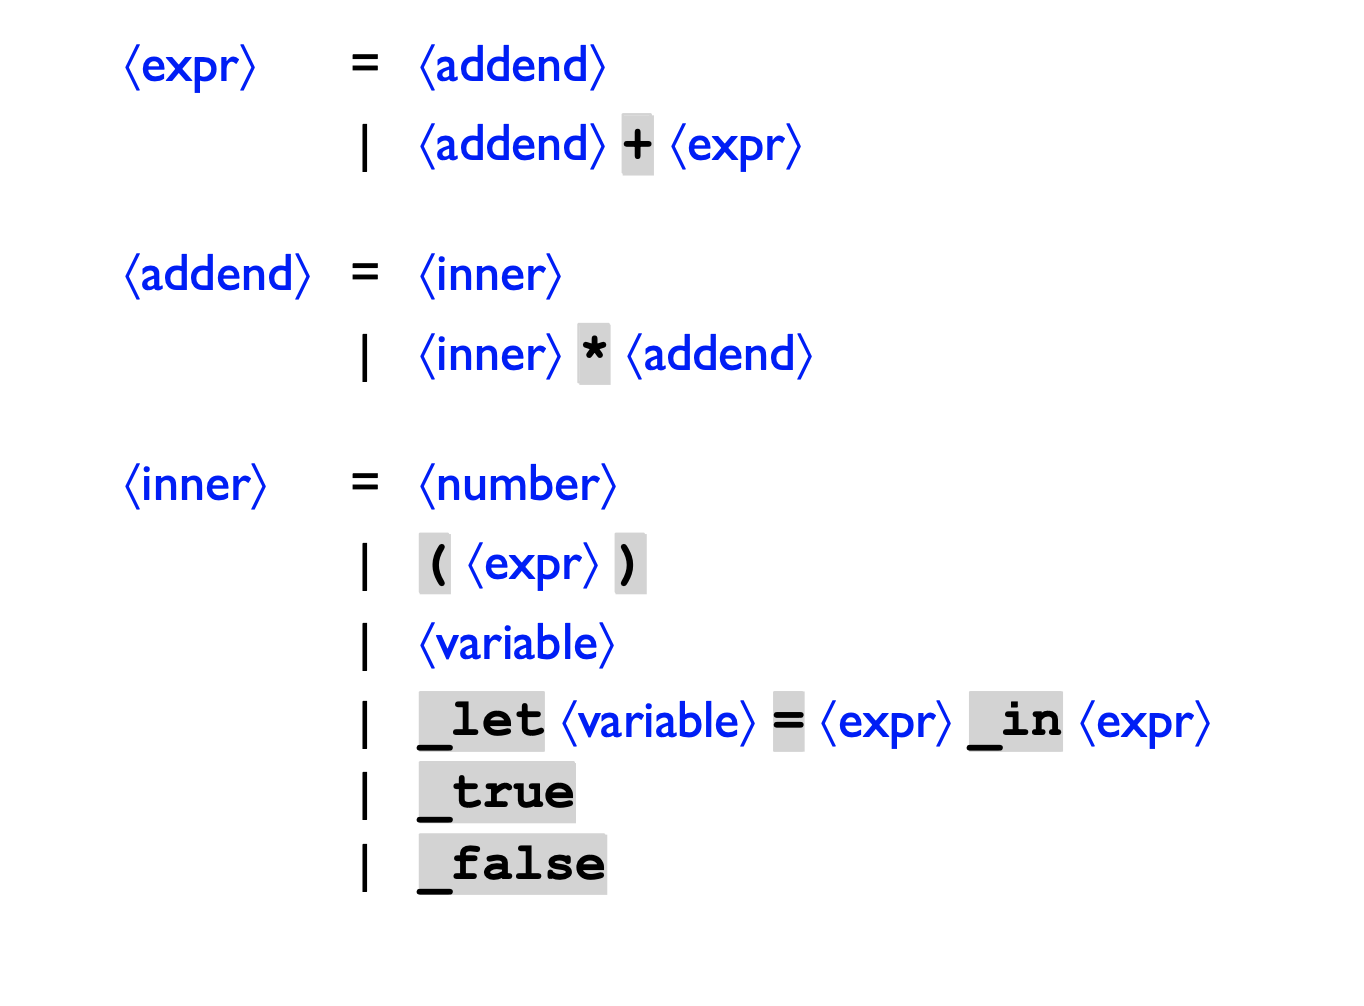
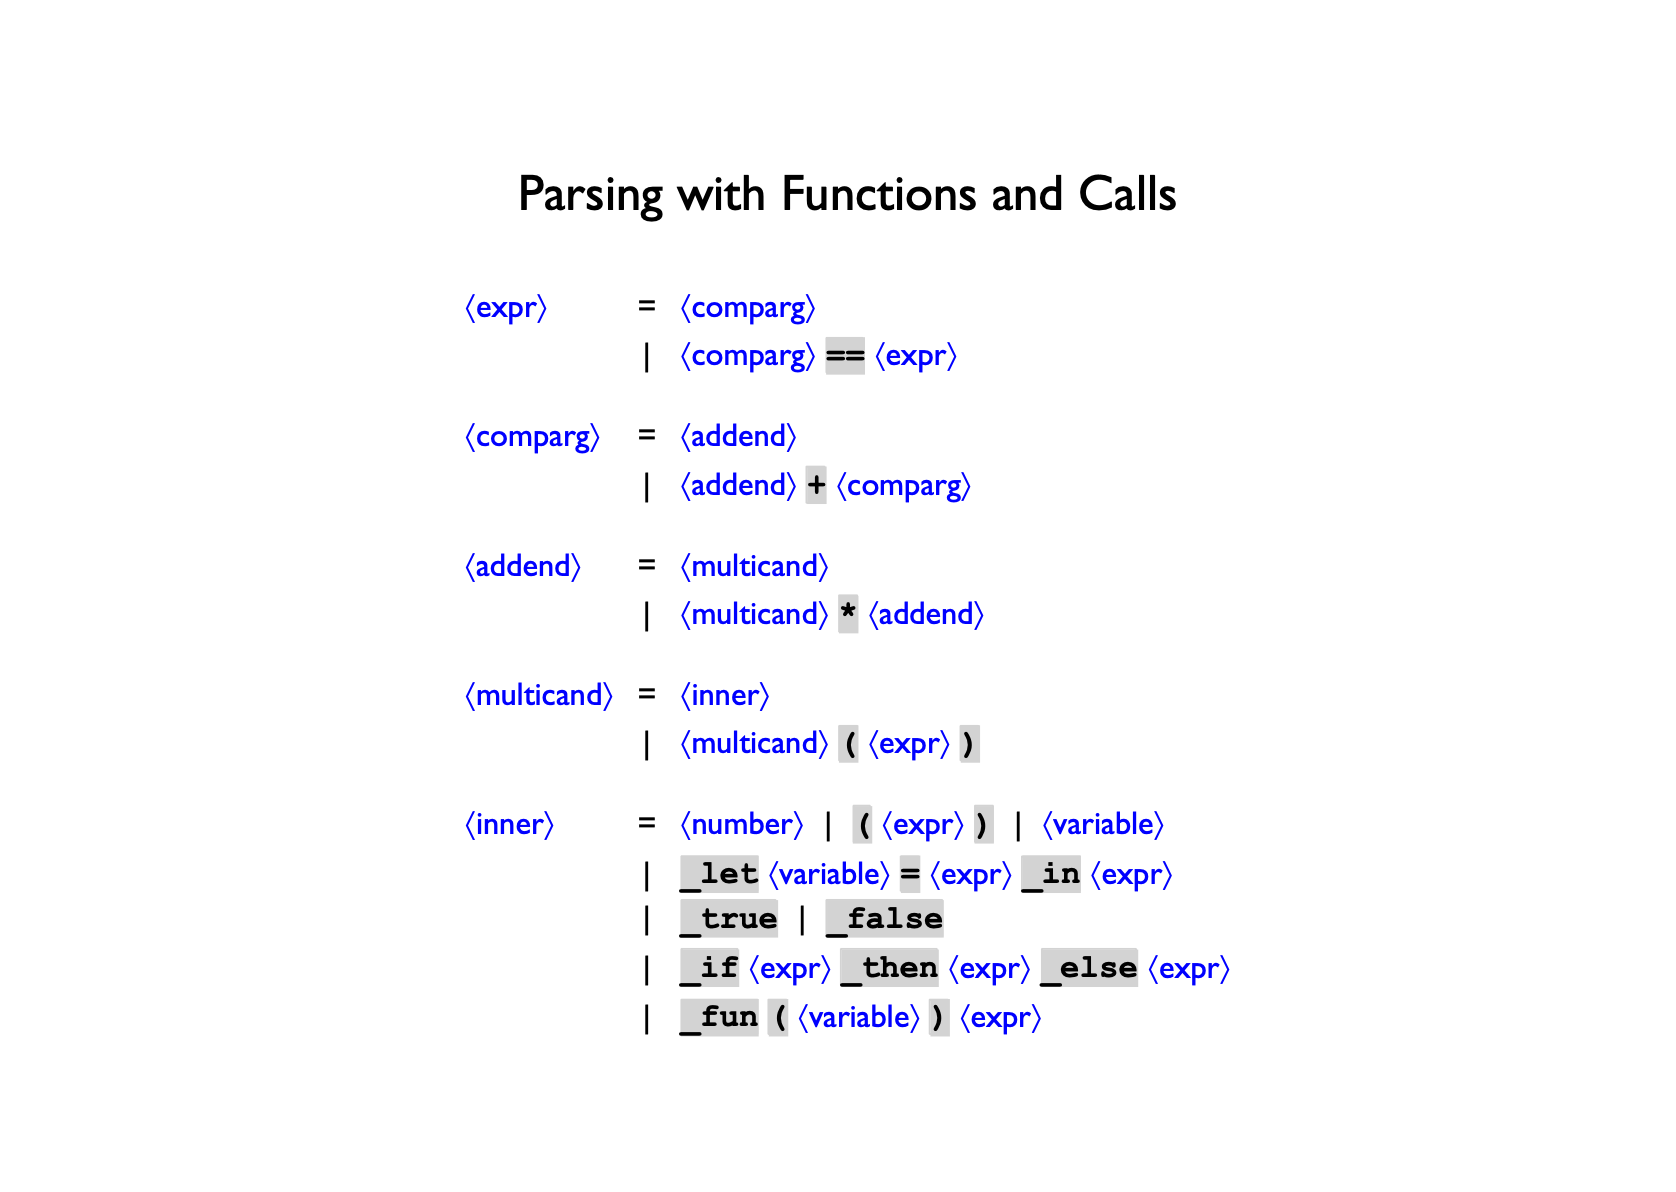
Add function support

diff --git a/Interpreter/parse.cpp b/Interpreter/parse.cpp
@@ -32,10 +32,12 @@ char get_next(std::istream &in){
 Expr *parse_if(std::istream &in);
 Expr *comparg(std::istream &in);
 Expr *addend(std::istream &in);
+Expr *multicand(std::istream &in);
 Expr *inner(std::istream &in);
 Expr *parse_number(std::istream &in);
 Expr *parse_variable(std::istream &in);
 Expr *let(std::istream &in);
+Expr *parse_fun(std::istream &in);
 std::string parse_keyword(std::istream &in);
 std::string parse_alphabetic(std::istream &in, std::string prefix);
 
@@ -77,11 +79,11 @@ Expr *comparg(std::istream &in){
 
 /**
  Return an expresion according to grammar:
- <addend> = <number-or-paren>
-          | <number-or-paren> * <addend>
+ <addend> = <multicand>
+          | <multicand> * <addend>
  */
 Expr *addend(std::istream &in) {
-    Expr *num = inner(in);
+    Expr *num = multicand(in);
     if(num == nullptr) return nullptr;
     char c = peek_next(in);
     if (c == '*') {
@@ -94,6 +96,19 @@ Expr *addend(std::istream &in) {
 }
 
 /**
+ <multicand> = <inner>
+             | <multicand> ( <expr> )
+ */
+Expr *multicand(std::istream &in) {
+    Expr *temp = inner(in);
+    while (peek_next(in) == '(') {
+        Expr *actual_arg = expr(in);
+        temp = new CallExpr(temp, actual_arg);
+    }
+    return temp;
+}
+
+/**
  Return an expression according to grammar:
  <number-or-paren> = <number>
                    | (<expr>)
@@ -101,6 +116,7 @@ Expr *addend(std::istream &in) {
                    | _let <variable> = <expr> _in <expr>
                    | _true/_false
                    | _if <expr> _then <expr> _else <expr>
+                   | _fun ( <variable> ) <expr>
  */
 Expr *inner(std::istream &in){
     char c = peek_next(in);
@@ -124,6 +140,8 @@ Expr *inner(std::istream &in){
             return let(in);
         else if (keyword == "_if")
             return parse_if(in);
+        else if (keyword == "_fun")
+            return parse_fun(in);
         else
             throw std::runtime_error((std::string)"unexpected keyword " + keyword);
     } else
@@ -174,6 +192,23 @@ Expr *parse_variable(std::istream &in) {
     return new VarExpr(parse_alphabetic(in, ""));
 }
 
+// Parse a function
+Expr *parse_fun(std::istream &in){
+    char c = peek_next(in);
+    if(c == '('){
+        get_next(in);
+        peek_next(in);
+        std::string formal_var = parse_alphabetic(in, "");
+        c = peek_next(in);
+        if(c != ')')
+            throw std::runtime_error((std::string)"not a function format");
+        get_next(in);
+        Expr *body = expr(in);
+        return new FuncExpr(formal_var, body);
+    } else
+        throw std::runtime_error((std::string)"not a function format");
+}
+
 // Parses an expression, assuming that `in` starts with a
 // letter.
 std::string parse_keyword(std::istream &in) {
@@ -210,6 +245,7 @@ Expr *parse_str(std::string s){
     return parse(in);
 }
 
+
 TEST_CASE( "parse" ) {
     CHECK((new NumExpr(1))->equals(new NumExpr(1)));
     CHECK(!(new NumExpr(1))->equals(new NumExpr(2)));
@@ -245,4 +281,9 @@ TEST_CASE("interpreter"){
     CHECK(parse_str("_let x = 6 _in _let x = 19 _in x")->interp()->equals(new NumVal(19)));
     CHECK(parse_str("_if 5 == 3 _then 2 _else 89")->interp()->equals(new NumVal(89)));
     CHECK(parse_str("-8 + 3")->interp()->equals(new NumVal(-5)));
+}
+
+TEST_CASE("function"){
+    CHECK(parse_str("_fun (x) x + 1")->equals(new FuncExpr("x", new AddExpr( new VarExpr("x"), new NumExpr(1)))));
+    CHECK(parse_str("_let f = _fun (x) x + 1 _in f(10)")->interp()->equals(new NumVal(11)));
 }

diff --git a/Interpreter/expr.cpp b/Interpreter/expr.cpp
@@ -213,6 +213,37 @@ std::string BoolExpr::to_string(){
     return interp()->to_string();
 }
 
+
+CallExpr::CallExpr(Expr *to_be_called, Expr *actual_arg){
+    this->to_be_called = to_be_called;
+    this->actual_arg = actual_arg;
+}
+
+bool CallExpr::equals(Expr *e){
+    CallExpr *ce = dynamic_cast<CallExpr *>(e);
+    return to_be_called->equals(ce->to_be_called) && actual_arg->equals(ce->actual_arg);
+}
+
+Val *CallExpr::interp(){
+    return to_be_called->interp()->call(actual_arg->interp());
+}
+
+Expr *CallExpr::subst(std::string var, Val* new_val){
+    return new CallExpr(to_be_called->subst(var, new_val), actual_arg);
+}
+
+Expr *CallExpr::optimize(){
+    return new CallExpr(to_be_called->optimize(), actual_arg->optimize());
+}
+
+bool CallExpr::containsVar(){
+    return actual_arg->containsVar();
+}
+
+std::string CallExpr::to_string(){
+    return to_be_called->to_string() + "(" + actual_arg->to_string() + ")";
+}
+
 LetExpr::LetExpr(std::string let_var, Expr *eq_expr, Expr *in_expr){
     this->let_var = let_var;
     this->rhs = eq_expr;
@@ -301,6 +332,40 @@ bool IfExpr::containsVar(){
 std::string IfExpr::to_string(){
     return "_if " + test_part->to_string() + " _then " + then_part->to_string() + " _else " + else_part->to_string();
 }
+
+FuncExpr::FuncExpr(std::string formal_arg, Expr *body){
+    this->formal_arg = formal_arg;
+    this->body = body;
+}
+
+bool FuncExpr::equals(Expr *e){
+    FuncExpr *fe = dynamic_cast<FuncExpr *>(e);
+    return formal_arg == fe->formal_arg && body->equals(fe->body);
+}
+
+Val *FuncExpr::interp(){
+    return new FuncVal(formal_arg, body);
+}
+
+Expr *FuncExpr::subst(std::string var, Val* new_val){
+    if(var == formal_arg)
+        return this;
+    else
+        return new FuncExpr(formal_arg, body->subst(var, new_val));
+}
+
+Expr *FuncExpr::optimize(){
+    return new FuncExpr(formal_arg, body->optimize());
+}
+
+bool FuncExpr::containsVar(){
+    return body->containsVar();
+}
+
+std::string FuncExpr::to_string(){
+    return "_fun (" + formal_arg + ") " + body->to_string();
+}
+
 
 TEST_CASE( "equals" ) {
     CHECK( (new NumExpr(1))->equals(new NumExpr(1)) );

diff --git a/Interpreter/value.cpp b/Interpreter/value.cpp
@@ -46,6 +46,10 @@ Expr *NumVal::to_expr(){
     return new NumExpr(rep);
 }
 
+Val *NumVal::call(Val *actual_arg){
+    return this;
+}
+
 std::string NumVal::to_string(){
     return std::to_string(rep);
 }
@@ -78,6 +82,9 @@ bool BoolVal::is_ture(){
     return rep;
 }
 
+Val *BoolVal::call(Val *actual_arg){
+    return this;
+}
 
 std::string BoolVal::to_string()
 {
@@ -85,6 +92,41 @@ std::string BoolVal::to_string()
         return "_true";
     else
         return "_false";
+}
+
+FuncVal::FuncVal(std::string formal_arg, Expr *body){
+    this->formal_arg = formal_arg;
+    this->body = body;
+}
+
+bool FuncVal::equals(Val *other_val){
+    FuncVal *fv = dynamic_cast<FuncVal *>(other_val);
+    return formal_arg == fv->formal_arg && body->equals(fv->body);
+}
+
+Val *FuncVal::add_to(Val *other_val){
+    throw std::runtime_error((std::string)"No adding functions");
+}
+
+Val *FuncVal::mult_with(Val *other_val){
+    throw std::runtime_error((std::string)"No multiplying functions");
+}
+
+bool FuncVal::is_ture(){
+    throw std::runtime_error((std::string)"evaluate non-boolean");
+}
+
+Expr *FuncVal::to_expr(){
+    return new FuncExpr(formal_arg, body);
+}
+
+Val *FuncVal::call(Val *actual_arg){
+    Expr * new_body = body->subst(formal_arg, actual_arg);
+    return new_body->interp();
+}
+
+std::string FuncVal::to_string(){
+    return "_fun (" + formal_arg + ") " + body->to_string();
 }
 
 TEST_CASE( "values equals" ) {

diff --git a/Interpreter/expr.hpp b/Interpreter/expr.hpp
@@ -108,6 +108,20 @@ public:
     std::string to_string();
 };
 
+class CallExpr : public Expr{
+public:
+    Expr* to_be_called;
+    Expr* actual_arg;
+    
+    CallExpr(Expr *to_be_called, Expr *actual_arg);
+    bool equals(Expr *e);
+    Val *interp();
+    Expr *subst(std::string var, Val* new_val);
+    Expr *optimize();
+    bool containsVar();
+    std::string to_string();
+};
+
 class LetExpr : public Expr{
 public:
     std::string let_var;
@@ -125,12 +139,25 @@ public:
 
 class IfExpr : public Expr{
 public:
-    std::string let_var;
     Expr *test_part;
     Expr *then_part;
     Expr *else_part;
     
     IfExpr(Expr *test_part, Expr *then_part, Expr *else_part);
+    bool equals(Expr *e);
+    Val *interp();
+    Expr *subst(std::string var, Val* new_val);
+    Expr *optimize();
+    bool containsVar();
+    std::string to_string();
+};
+
+class FuncExpr : public Expr{
+public:
+    std::string formal_arg;
+    Expr *body;
+    
+    FuncExpr(std::string formal_arg, Expr *body);
     bool equals(Expr *e);
     Val *interp();
     Expr *subst(std::string var, Val* new_val);

diff --git a/Interpreter/value.hpp b/Interpreter/value.hpp
@@ -20,6 +20,7 @@ public:
     virtual Val *mult_with(Val *other_val) = 0;
     virtual bool is_ture() = 0;
     virtual Expr *to_expr() = 0;
+    virtual Val *call(Val *actual_arg) = 0;
     virtual std::string to_string() = 0;
 };
 
@@ -33,6 +34,7 @@ public:
     Val *mult_with(Val *other_val);
     bool is_ture();
     Expr *to_expr();
+    Val *call(Val *actual_arg);
     std::string to_string();
 };
 
@@ -46,8 +48,23 @@ public:
     Val *mult_with(Val *other_val);
     bool is_ture();
     Expr *to_expr();
+    Val *call(Val *actual_arg);
     std::string to_string();
 };
 
+class FuncVal : public Val{
+public:
+    std::string formal_arg;
+    Expr *body;
+    
+    FuncVal(std::string formal_arg, Expr *body);
+    bool equals(Val *other_val);
+    Val *add_to(Val *other_val);
+    Val *mult_with(Val *other_val);
+    bool is_ture();
+    Expr *to_expr();
+    Val *call(Val *actual_arg);
+    std::string to_string();
+};
 
 #endif /* value_hpp */

diff --git a/README.md b/README.md
@@ -1,8 +1,18 @@
 # Interpreter-MSDScript
 A basic interpreter for a new programming language-MSDScript. 
 
-* The Syntax of the MSDScript is like this:  
-![](img/1.png)
+* The Syntax of the MSDScript is like this:   
+   ```
+    _let fib = _fun (fib)
+                 _fun (x)
+                    _if x == 0
+                    _then 1
+                    _else _if x == 2 + -1
+                    _then 1
+                    _else fib(fib)(x + -1)
+                          + fib(fib)(x + -2)
+    _in fib(fib)(10)
+   ```
 
 * Functions of MSDScript include: arithmetic/boolean parser, variable binding, functions, explicit continuations.
 
@@ -77,3 +87,24 @@ Working log:
 
 * Feb 5, 2020
     1. Improve the performance of the interpreter and fix bugs.
+
+* Feb 9, 2020
+    Add support for functions.
+   As a kind of stress test, this program should work for the interpreter:
+
+   ```
+    _let fib = _fun (fib)
+                 _fun (x)
+                    _if x == 0
+                    _then 1
+                    _else _if x == 2 + -1
+                    _then 1
+                    _else fib(fib)(x + -1)
+                          + fib(fib)(x + -2)
+    _in fib(fib)(10)
+   ```
+
+   and the result should be `89`. The optimized form of that program should
+   be the same, except that `2 + -1` expression in the middle should be
+   optimized to just `1`.
+
